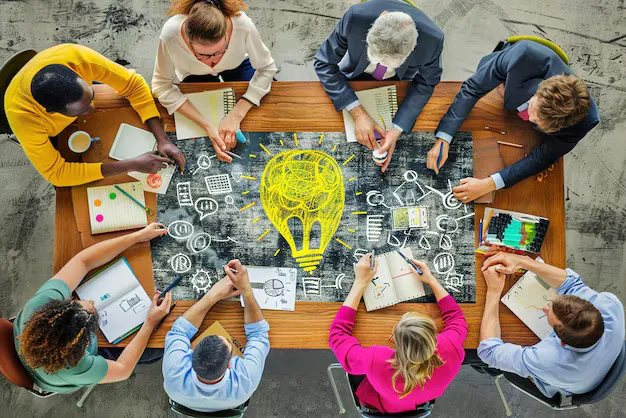
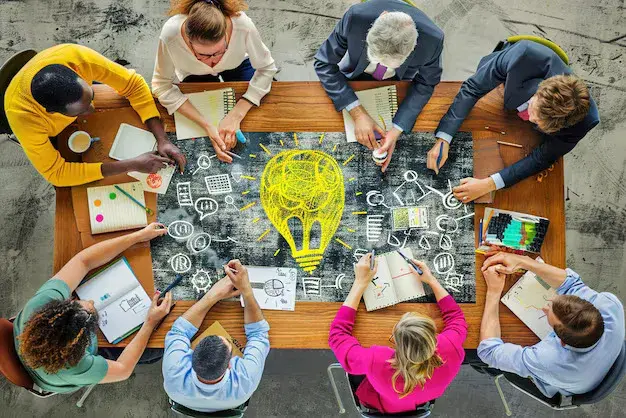
refactor(ui): optimize hero section and clean up unused components
- Refactor `HeroSection.vue` to use responsive `srcset` and `imagesrcset` for better image loading performance.
- Add `fetchpriority: "high"` to hero image preloads to improve LCP.
- Remove unused components: `GradientBackground.vue`, `HeroBanner.vue`, and `PageHero.vue`.
- Clean up unused i18n keys for `heroBanner` and `pageHero`.
- Remove obsolete assets: `hero-sfondo.jpg` and `logobocconi.svg`.
- Update CI workflow to remove unnecessary `sharp` installation step.

diff --git a/app/components/generic/HeroSection.vue b/app/components/generic/HeroSection.vue
@@ -5,13 +5,23 @@ const { $viewport } = useNuxtApp()
 
 const heroImg = {
 	mobile: "/img/hero/hero-sfondo-mobile.webp",
-	desktop: "/img/hero/hero-sfondo.webp"
+	desktop: "/img/hero/hero-sfondo.webp",
+	desktopSm: "/img/hero/hero-sfondo-1280.webp"
 }
+
+const desktopSrcset = `${heroImg.desktopSm} 1280w, ${heroImg.desktop} 1920w`
 
 useHead({
 	link: [
-		{ rel: "preload", as: "image", href: heroImg.mobile, media: "(max-width: 767px)" },
-		{ rel: "preload", as: "image", href: heroImg.desktop, media: "(min-width: 768px)" }
+		{ rel: "preload", as: "image", href: heroImg.mobile, media: "(max-width: 767px)", fetchpriority: "high" },
+		{
+			rel: "preload",
+			as: "image",
+			imagesrcset: desktopSrcset,
+			imagesizes: "100vw",
+			media: "(min-width: 768px)",
+			fetchpriority: "high"
+		}
 	]
 })
 
@@ -35,6 +45,8 @@ const buttonSize = computed(() => {
 						<source media="(max-width: 767px)" :srcset="heroImg.mobile" type="image/webp" />
 						<img
 							:src="heroImg.desktop"
+							:srcset="desktopSrcset"
+							sizes="100vw"
 							alt=""
 							width="1920"
 							height="1280"
